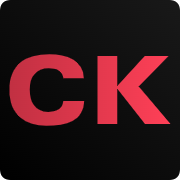
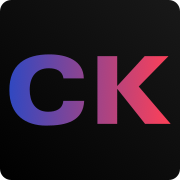
gradient changes

diff --git a/app/projects/page.tsx b/app/projects/page.tsx
@@ -18,12 +18,12 @@ export default function Projects() {
   return (
     <main className="w-full h-full flex items-center flex-col justify-center font-medium px-2 xxs:px-4 md:px-12 lg:px-20 py-[100px]">
       <div className="w-full h-full flex justify-center items-center">
-        <h1 className="flex justify-center items-center font-semibold tracking-wider bg-gradient-to-r from-darkCk/80 to-lightCk/90 dark:from-darkCk/50 dark:to-lightCk/50 border-black dark:border-light border mb-4 text-xl md:text-3xl px-1 md:px-2 py-1 ">
+        <h1 className="flex justify-center items-center font-semibold tracking-wider bg-gradient-to-r from-darkCk/50 to-lightCk/50 dark:from-darkCk/50 dark:to-lightCk/50 border-black dark:border-light border mb-4 text-xl md:text-3xl px-1 md:px-2 py-1 ">
           My Projects
         </h1>
       </div>
       {/* Ramma creations */}
-      <div className="grid grid-cols-1 w-full gap-1 lg:grid-cols-2 rounded-xl bg-slate-200 dark:bg-darked mt-6 p-6">
+      <div className="grid grid-cols-1 w-full gap-1 lg:grid-cols-2 rounded-xl bg-contentBg dark:bg-darked mt-6 p-6">
         {/* <div className="absolute right-[50%] -mt-10 rounded-[50%] bg-dark text-light dark:bg-light dark:text-dark text-center w-12 h-12 text-3xl">1</div> */}
         <div className="flex items-center">
           {/* Content for the first column */}
@@ -37,7 +37,7 @@ export default function Projects() {
               <Link
                 href="https://www.alibabacloud.com/blog/project-showcase-%7C-ramaa-creations_598812"
                 target="_blank"
-                className="py-1 px-2 rounded flex items-center border border-darker dark:border-light bg-gradient-to-r hover:from-darkCk/80 hover:to-lightCk/80"
+                className="py-1 px-2 rounded flex items-center border border-darker dark:border-light bg-gradient-to-r hover:from-darkCk/50 hover:to-lightCk/50"
               >
                 <AlibabaCloudIcon className="mr-2" />
                 Blog
@@ -60,7 +60,7 @@ export default function Projects() {
         </div>
       </div>
       {/* StackOverflow Clone */}
-      <div className="grid grid-cols-1 w-full gap-1 lg:grid-cols-2 rounded-xl bg-slate-200 dark:bg-darked mt-6 p-6">
+      <div className="grid grid-cols-1 w-full gap-1 lg:grid-cols-2 rounded-xl bg-contentBg dark:bg-darked mt-6 p-6">
         {/* <div className="absolute right-[50%] -mt-10 rounded-[50%] bg-dark text-light dark:bg-light dark:text-dark text-center w-12 h-12 text-3xl">1</div> */}
         <div className="flex items-center lg:order-2">
           {/* Content for the first column */}
@@ -73,7 +73,7 @@ export default function Projects() {
               <Link
                 href="https://github.com/Chhatreshkhatri/stack-overflow-clone"
                 target="_blank"
-                className="py-1 px-2 rounded flex whitespace-nowrap items-center border border-darker dark:border-light bg-gradient-to-r hover:from-darkCk/80 hover:to-lightCk/80"
+                className="py-1 px-2 rounded flex whitespace-nowrap items-center border border-darker dark:border-light bg-gradient-to-r hover:from-darkCk/50 hover:to-lightCk/50"
               >
                 <GithubIcon className="mr-2 flex whitespace-nowrap" />
                 GitHub Link
@@ -81,7 +81,7 @@ export default function Projects() {
               <Link
                 href="https://soclone.chhatreshkhatri.com/"
                 target="_blank"
-                className="py-1 px-2 rounded flex whitespace-nowrap items-center border border-darker dark:border-light bg-gradient-to-r hover:from-darkCk/80 hover:to-lightCk/80"
+                className="py-1 px-2 rounded flex whitespace-nowrap items-center border border-darker dark:border-light bg-gradient-to-r hover:from-darkCk/50 hover:to-lightCk/50"
               >
                 <LinkIcon className="mr-2 " />
                 Live Link
@@ -105,7 +105,7 @@ export default function Projects() {
         </div>
       </div>
       {/* AmazonClone*/}
-      <div className="grid grid-cols-1 w-full gap-1 lg:grid-cols-2 rounded-xl bg-slate-200 dark:bg-darked mt-6 p-6">
+      <div className="grid grid-cols-1 w-full gap-1 lg:grid-cols-2 rounded-xl bg-contentBg dark:bg-darked mt-6 p-6">
         {/* <div className="absolute right-[50%] -mt-10 rounded-[50%] bg-dark text-light dark:bg-light dark:text-dark text-center w-12 h-12 text-3xl">1</div> */}
         <div className="flex items-center">
           {/* Content for the first column */}
@@ -118,7 +118,7 @@ export default function Projects() {
               <Link
                 href="https://github.com/Chhatreshkhatri/amazon-clone"
                 target="_blank"
-                className="py-1 px-2 rounded flex whitespace-nowrap items-center border border-darker dark:border-light bg-gradient-to-r hover:from-darkCk/80 hover:to-lightCk/80"
+                className="py-1 px-2 rounded flex whitespace-nowrap items-center border border-darker dark:border-light bg-gradient-to-r hover:from-darkCk/50 hover:to-lightCk/50"
               >
                 <GithubIcon className="mr-2" />
                 GiHub Link
@@ -126,7 +126,7 @@ export default function Projects() {
               <Link
                 href="https://amazonclone.chhatreshkhatri.com/"
                 target="_blank"
-                className="py-1 px-2 rounded flex whitespace-nowrap items-center border border-darker dark:border-light bg-gradient-to-r hover:from-darkCk/80 hover:to-lightCk/80"
+                className="py-1 px-2 rounded flex whitespace-nowrap items-center border border-darker dark:border-light bg-gradient-to-r hover:from-darkCk/50 hover:to-lightCk/50"
               >
                 <LinkIcon className="mr-2" />
                 Live Link
@@ -149,7 +149,7 @@ export default function Projects() {
         </div>
       </div>
       {/* MyChat Project */}
-      <div className="grid grid-cols-1 w-full gap-1 lg:grid-cols-2 rounded-xl bg-slate-200 dark:bg-darked mt-6 p-6">
+      <div className="grid grid-cols-1 w-full gap-1 lg:grid-cols-2 rounded-xl bg-contentBg dark:bg-darked mt-6 p-6">
         {/* <div className="absolute right-[50%] -mt-10 rounded-[50%] bg-dark text-light dark:bg-light dark:text-dark text-center w-12 h-12 text-3xl">1</div> */}
         <div className="flex items-center  lg:order-2">
           {/* Content for the first column */}
@@ -162,7 +162,7 @@ export default function Projects() {
               <Link
                 href="https://github.com/Chhatreshkhatri/MyChat"
                 target="_blank"
-                className="py-1 px-2 rounded flex whitespace-nowrap items-center border border-darker dark:border-light bg-gradient-to-r hover:from-darkCk/80 hover:to-lightCk/80"
+                className="py-1 px-2 rounded flex whitespace-nowrap items-center border border-darker dark:border-light bg-gradient-to-r hover:from-darkCk/50 hover:to-lightCk/50"
               >
                 <GithubIcon className="mr-2" />
                 GitHub Link

diff --git a/app/about/page.tsx b/app/about/page.tsx
@@ -12,11 +12,11 @@ export default function Page() {
   return (
     <main className=" w-full h-full flex items-center flex-col justify-center font-medium px-4 md:px-12 lg:px-20 py-[100px]">
       <div className="w-full h-full flex justify-center items-center">
-        <h1 className="flex justify-center items-center font-semibold tracking-wider bg-gradient-to-r from-darkCk/80 to-lightCk/90 dark:from-darkCk/50 dark:to-lightCk/50 border-black dark:border-light border mb-4 text-xl md:text-3xl px-1 md:px-2 py-1 ">
+        <h1 className="flex justify-center items-center font-semibold tracking-wider bg-gradient-to-r from-darkCk/50 to-lightCk/50 dark:from-darkCk/50 dark:to-lightCk/50 border-black dark:border-light border mb-4 text-xl md:text-3xl px-1 md:px-2 py-1 ">
           About Me
         </h1>
       </div>
-      <div className="dark:bg-darked rounded-xl bg-slate-200 text-justify px-6 xs:px-10 py-6 mt-6">
+      <div className="dark:bg-darked rounded-xl bg-contentBg text-justify px-6 xs:px-10 py-6 mt-6">
         <h2 className={`text-2xl xxs:text-3xl md:text-4xl text-center`}>Description</h2>
         <p className="text-xl mt-4">
           Hi there! My name is Chhatresh Khatri and I&apos;m a web developer
@@ -33,11 +33,11 @@ export default function Page() {
         </p>
       </div>
       <div className="w-full h-full flex justify-center">
-        <h2 className="font-semibold tracking-wider bg-gradient-to-r from-darkCk/80 to-lightCk/90 dark:from-darkCk/50 dark:to-lightCk/50 border-black dark:border-light border mb-4 inline-block text-2xl md:text-3xl px-1 md:px-2 py-1 mt-10">
+        <h2 className="font-semibold tracking-wider bg-gradient-to-r from-darkCk/50 to-lightCk/50 dark:from-darkCk/50 dark:to-lightCk/50 border-black dark:border-light border mb-4 inline-block text-2xl md:text-3xl px-1 md:px-2 py-1 mt-10">
           Technology Stack
         </h2>
       </div>
-      <div className="dark:bg-darked rounded-xl bg-slate-200 px-10 py-6 mt-6 w-full">
+      <div className="dark:bg-darked rounded-xl bg-contentBg px-10 py-6 mt-6 w-full">
         <h3 className={`text-2xl xxs:text-3xl md:text-4xl text-center`}>Languages</h3>
         <div className="flex flex-wrap items-center justify-center mt-4 space-x-3 ">
           <Badge

diff --git a/app/page.tsx b/app/page.tsx
@@ -9,7 +9,7 @@ export default function Home() {
   return (
     <main className="w-full h-full flex items-center flex-col justify-center font-medium px-4 md:px-12 lg:px-20 py-[100px]">
       <div className="w-full h-full flex justify-center items-center">
-        <span className="flex justify-center items-center font-semibold tracking-wider bg-gradient-to-r from-darkCk/80 to-lightCk/90 dark:from-darkCk/50 dark:to-lightCk/50 border-black dark:border-light border mb-4 text-xl md:text-3xl px-1 md:px-2 py-1 ">
+        <span className="flex justify-center items-center font-semibold tracking-wider bg-gradient-to-r from-darkCk/50 to-lightCk/50 dark:from-darkCk/50 dark:to-lightCk/50 border-black dark:border-light border mb-4 text-xl md:text-3xl px-1 md:px-2 py-1 ">
           Welcome to my Portfolio
         </span>
       </div>
@@ -34,7 +34,7 @@ export default function Home() {
               <Link
                 href={`https://drive.google.com/file/d/19RguGg9v2VWPQJa-XL_2sCASpk65u5hd/view`}
                 target="_blank"
-                className="py-1 px-2 rounded flex items-center border border-darker dark:border-light bg-gradient-to-r hover:from-darkCk/80 hover:to-lightCk/80"
+                className="py-1 px-2 rounded flex items-center border border-darker dark:border-light bg-gradient-to-r hover:from-darkCk/50 hover:to-lightCk/50"
               >
                 <ResumeIcon className="mr-2" />
                 Resume
@@ -42,7 +42,7 @@ export default function Home() {
               <Link
                 href={`https://social.chhatreshkhatri.com/`}
                 target="_blank"
-                className="py-1 px-2 rounded flex whitespace-nowrap items-center border border-darker dark:border-light bg-gradient-to-r hover:from-darkCk/80 hover:to-lightCk/80"
+                className="py-1 px-2 rounded flex whitespace-nowrap items-center border border-darker dark:border-light bg-gradient-to-r hover:from-darkCk/50 hover:to-lightCk/50"
               >
                 <SocialIcon className="mr-2" />
                 Social Links

diff --git a/app/components/Navbar.tsx b/app/components/Navbar.tsx
@@ -20,7 +20,7 @@ const CustomLink = ({
       {title}
       <span
         className={`${path === href ? "w-full" : "w-0"
-          } h-0.5 flex items-center bg-dark dark:bg-light absolute left-0 bottom-0.5 group-hover:w-full transition-[width] ease duration-500`}
+          } h-0.5 flex items-center bg-gradient-to-r from-darkCk to-lightCk absolute left-0 bottom-0.5 group-hover:w-full transition-[width] ease duration-500`}
       ></span>
     </Link>
   );
@@ -48,7 +48,7 @@ const Navbar = () => {
   return (
     <header
       className={`${scrolled || navOpen
-        ? "shadow-bottom bg-slate-300 dark:bg-darker py-2 h-12 transition-none"
+        ? "shadow-bottom bg-navbarBg dark:bg-darker py-2 h-12 transition-none"
         : "py-3"
         } w-full font-medium flex align-center justify-between fixed z-50 transition duration-500 ease-in-out `}
     >
@@ -71,7 +71,7 @@ const Navbar = () => {
           }}
         >
           <span
-            className={`bg-dark dark:bg-light transition-all duration-300 ease-out h-0.5 w-6 rounded-sm  ${navOpen ? "rotate-45 translate-y-1" : "-translate-y-1"
+            className={`bg-gradient-to-r from-darkCk to-lightCk transition-all duration-300 ease-out h-0.5 w-6 rounded-sm  ${navOpen ? "rotate-45 translate-y-1" : "-translate-y-1"
               }`}
           ></span>
           <span

diff --git a/app/privacy-policy/page.tsx b/app/privacy-policy/page.tsx
@@ -15,7 +15,7 @@ export const metadata = {
 const page = () => {
     return (
         <main className='w-full h-full flex items-center flex-col justify-center font-medium px-4 md:px-12 lg:px-20 py-[100px]'>
-            <h1 className="flex justify-center items-center text-center font-semibold tracking-wider bg-gradient-to-r from-darkCk/80 to-lightCk/90 dark:from-darkCk/50 dark:to-lightCk/50 border-black dark:border-light border mb-4 text-xl md:text-3xl px-1 md:px-2 py-1 ">
+            <h1 className="flex justify-center items-center text-center font-semibold tracking-wider bg-gradient-to-r from-darkCk/50 to-lightCk/50 dark:from-darkCk/50 dark:to-lightCk/50 border-black dark:border-light border mb-4 text-xl md:text-3xl px-1 md:px-2 py-1 ">
                 Privacy Policy
             </h1>
             <div className='dark:bg-darked rounded-xl bg-slate-200 px-6 xs:px-10 py-6 mt-6 space-y-2 '>

diff --git a/tailwind.config.js b/tailwind.config.js
@@ -24,13 +24,16 @@ module.exports = {
       screens: {xxs:'425px', xs:'480px', md: "768px", lg: "1024px", xl: "1200px", xxl: "1400px" },
       colors: {
         dark: "#191919",
-        light: "#f5f5f5",
+        light: "#f5f5ff",
         primary: "#B63E96",
         primaryDark: "#58E6D9",
-        darkCk: "#b22c3c",
+        darkCk: "#5740FF",
         lightCk: "#FF4057",
         darker: "#111111",
         darked: "#151515",
+        contentBg: "#e0dff7",
+        navbarBg: "#cbc9fa",
+        footerBg: "#FF6B7A",
       },
       backgroundImage: {
         "gradient-radial": "radial-gradient(var(--tw-gradient-stops))",

diff --git a/app/components/footer.tsx b/app/components/footer.tsx
@@ -2,7 +2,7 @@ import Link from "next/link";
 
 const Footer = () => {
   return (
-    <footer className="flex flex-col lg:flex-row justify-between items-center w-full shadow-top bg-slate-300 dark:bg-darker py-2 px-2 xxs:px-4 md:px-12 lg:px-20 mt-auto">
+    <footer className="flex flex-col lg:flex-row justify-between items-center w-full shadow-top bg-navbarBg dark:bg-darker py-2 px-2 xxs:px-4 md:px-12 lg:px-20 mt-auto">
       <div className="bg-gradient-to-r from-darkCk to-lightCk bg-clip-text text-transparent text-2xl font-semibold">
         CHHATRESH KHATRI
       </div>

diff --git a/app/not-found.tsx b/app/not-found.tsx
@@ -7,6 +7,8 @@ const NotFoundPage: React.FC = () => {
       <p className="text-xl mb-8">The page you&pos;re looking for does not exist.</p>
       <Link href="/" className="text-blue-500 underline">Go back to the homepage
       </Link>
+
+      {/*   */}
     </div>
   )
 }

diff --git a/app/loading.module.css b/app/loading.module.css
@@ -66,7 +66,6 @@
   height: 200px;
   display: inline-block;
   overflow: hidden;
-  background: #ffffff;
 }
 .inner_css {
   width: 100%;
